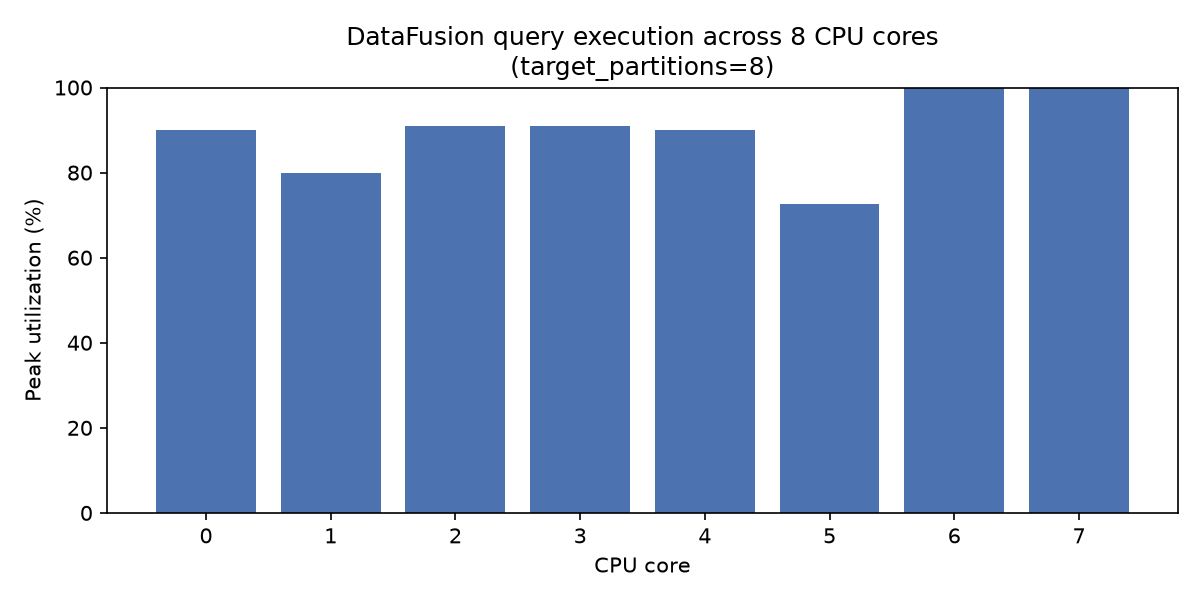
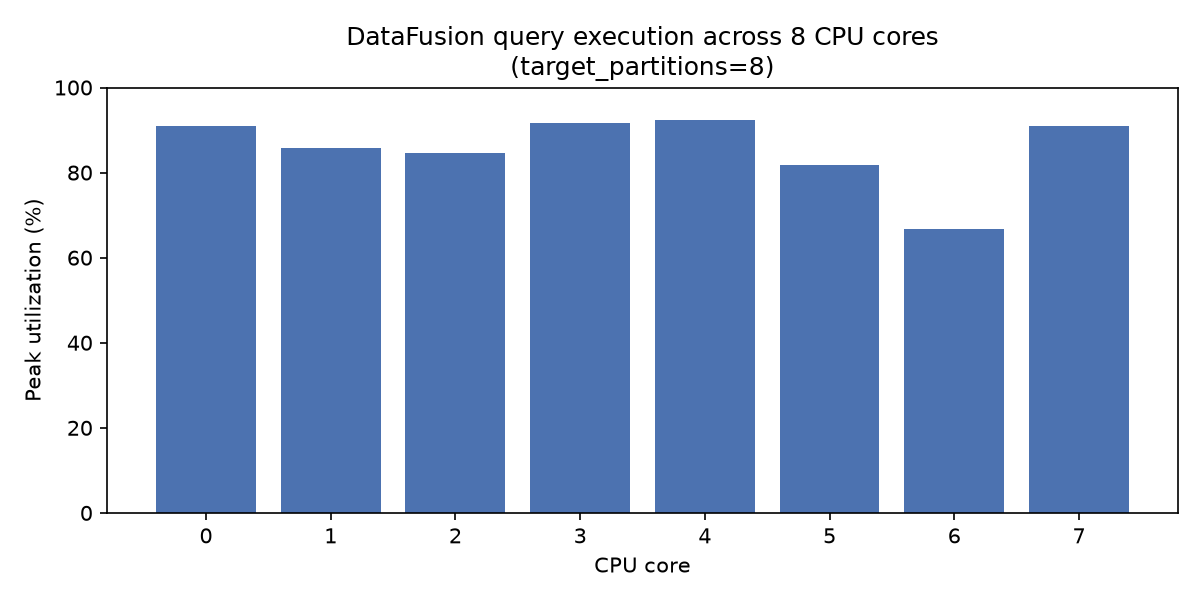
final fixes

diff --git a/datafusion/consume_process.py b/datafusion/consume_process.py
@@ -6,15 +6,6 @@ Cassandra.
 Since DataFusion has no native Kafka streaming source, this script uses a
 micro-batching approach: the consumer accumulates messages, and once a batch
 is full, hands it to DataFusion as a DataFrame.
-
-Windowing: each record carries an `Injected_Timestamp` (added by the producer
-at send time). Instead of using the wall-clock time at which the batch happens
-to be processed, we truncate this event-time field to WINDOW_SIZE and group by
-it, so `window_start` / `window_end` reflect a real tumbling window derived
-from the data itself rather than an arbitrary processing-time snapshot.
-
-Usage:
-  python3 datafusion/consume_process.py --batch-size 50 --max-batches 5
 """
 
 import argparse
@@ -28,15 +19,11 @@ import uuid
 
 KAFKA_BOOTSTRAP = "localhost:9092,localhost:9093,localhost:9094"
 TOPIC = "network-traffic"
-# Both Cassandra nodes are given as contact points (127.0.0.1 = cassandra1,
-# 127.0.0.2 = cassandra2, both on port 9042 -- see docker-compose.yml). This
-# is required for genuine fault tolerance: with only one contact point, the
-# driver has nowhere to fail over to if that node goes down mid-run, which is
-# exactly what caused a NoHostAvailable crash during fault-tolerance testing.
+
 CASSANDRA_CONTACT_POINTS = ["127.0.0.1", "127.0.0.2"]
 KEYSPACE = "intrusion_detection"
 
-WINDOW_SIZE = "second"  # date_trunc unit: tumbling window width (1 second)
+WINDOW_SIZE = "second"  
 
 
 def get_cassandra_session():
@@ -48,15 +35,11 @@ def get_cassandra_session():
 def process_batch(rows, ctx, cassandra_session):
     df = pd.DataFrame(rows)
 
-    # Cast numeric columns (everything arrives as strings from Kafka/JSON)
+    # Cast numeric columns
     df["Destination Port"] = pd.to_numeric(df["Destination Port"], errors="coerce")
     df["Flow Duration"] = pd.to_numeric(df["Flow Duration"], errors="coerce")
     df["Total Length of Fwd Packets"] = pd.to_numeric(df["Total Length of Fwd Packets"], errors="coerce")
 
-    # Injected_Timestamp: the real timestamp the producer attached to each row
-    # (ISO 8601 string). Parse it into an actual datetime so DataFusion can
-    # compute an event-time-based tumbling window instead of relying on
-    # processing time.
     df["Injected_Timestamp"] = pd.to_datetime(
         df["Injected_Timestamp"], utc=True, format="ISO8601", errors="coerce"
     )
@@ -72,9 +55,7 @@ def process_batch(rows, ctx, cassandra_session):
         WHERE "Label" != 'BENIGN'
     """).to_pandas()
 
-    # Tumbling window: round Injected_Timestamp down to WINDOW_SIZE and
-    # aggregate per window + port. window_start/window_end are now derived
-    # from the data's own event time, not from now() at processing time.
+    # Tumbling window: round Injected_Timestamp down to WINDOW_SIZE and aggregate per window + port. 
     metrics = batch_ctx.sql(f"""
         SELECT date_trunc('{WINDOW_SIZE}', "Injected_Timestamp") as window_start,
                "Destination Port" as dst_port,
@@ -88,11 +69,6 @@ def process_batch(rows, ctx, cassandra_session):
 
     window_delta = pd.Timedelta(**{WINDOW_SIZE + "s": 1})
 
-    # One batch_id per micro-batch. Without this, two different micro-batches
-    # landing on the same (dst_port, window_start) would overwrite each other
-    # (Cassandra INSERT is an upsert) instead of both being kept. See the
-    # comment in schema.cql for details; totals across batches for a given
-    # window are computed at query time via SUM(...) GROUP BY dst_port, window_start.
     batch_id = uuid.uuid4()
 
     for _, row in anomalies.iterrows():

diff --git a/scripts/prepare_data.py b/scripts/prepare_data.py
@@ -4,13 +4,11 @@ CICIDS2017 data preparation script.
 What it does:
   1. Reads the 8 raw files in data/*.csv (memory-friendly, using chunking)
   2. Strips leading/trailing whitespace from column names
-  3. Deduplicates duplicate column names (e.g., "Fwd Header Length") to make them unique
+  3. Deduplicates duplicate column names to make them unique
   4. Fixes encoding corruptions in the Label column (Web Attack types)
   5. Detects and removes corrupted rows containing missing (NaN) and infinite (Inf) values
   6. Saves the result under data/clean/ with the same filename
 
-Usage:
-  python3 scripts/prepare_data.py
 """
 
 import pandas as pd
@@ -56,7 +54,7 @@ def process_file(src_path: str, dst_path: str) -> int:
         if "Label" in chunk.columns:
             chunk["Label"] = chunk["Label"].apply(clean_label)
 
-        # 3. DATA QUALITY CONTROL (NEWLY ADDED SECTION)
+        # 3. DATA QUALITY CONTROL 
         # Convert infinite (Inf) values to NaN (Missing Data) format
         chunk.replace([np.inf, -np.inf], np.nan, inplace=True)
         # Drop all rows containing NaN values from the dataset
@@ -97,7 +95,7 @@ def main():
         except Exception as e:
             print(f"  ERROR: {e}", flush=True)
             if os.path.exists(dst):
-                os.remove(dst)  # Removing the incomplete file to avoid leaving partial data
+                os.remove(dst) 
 
     print(f"=== ALL OPERATIONS COMPLETED ===")
     print(f"Total clean rows ready to be sent to DataFusion and Kafka: {grand_total:,}\n", flush=True)

diff --git a/datafusion/core_utilization_demo.py b/datafusion/core_utilization_demo.py
@@ -1,11 +1,6 @@
 """
 Demonstrates how DataFusion distributes query execution across CPU cores.
 
-DataFusion parallelizes query execution via `target_partitions`: a query's
-physical plan is split into N independent execution partitions (N defaults
-to the number of CPU cores), each processed concurrently by DataFusion's
-Rust-native thread pool. This script shows both sides of that claim:
-
   1. The physical plan (via .explain()), showing RepartitionExec stages and
      the partition count DataFusion chose to use.
   2. Real, per-core CPU utilization sampled while a moderately expensive
@@ -32,8 +27,6 @@ except ImportError:
 
 
 def sample_cpu_during(fn, interval=0.1):
-    """Runs fn() in a background thread while sampling per-core CPU% on the
-    main thread. Returns (result, list_of_percpu_samples)."""
     samples = []
     result = {}
 
@@ -41,7 +34,7 @@ def sample_cpu_during(fn, interval=0.1):
         result["value"] = fn()
 
     t = threading.Thread(target=worker)
-    psutil.cpu_percent(percpu=True)  # prime the first (meaningless) reading
+    psutil.cpu_percent(percpu=True)  
     t.start()
     while t.is_alive():
         samples.append(psutil.cpu_percent(percpu=True, interval=interval))

diff --git a/scripts/explore_data.py b/scripts/explore_data.py
@@ -1,7 +1,5 @@
 """
 Performs exploratory data analysis on raw CICIDS2017 data (*.csv).
-Uses memory-friendly chunked reading to measure row/column counts, label distribution,
-port distribution, missing (NaN/Inf) data rates, and timestamp injection performance.
 """
 
 import pandas as pd
@@ -10,7 +8,6 @@ import glob
 import os
 import time
 
-# You can adjust this path based on where your data files are located
 RAW_DIR = "data" 
 OUT_PATH = "docs/raw_data_exploration.txt"
 CHUNK_SIZE = 50_000

diff --git a/README.md b/README.md
@@ -18,6 +18,8 @@ The project went through two architectures:
   Track's fault-tolerance requirement, and what all current and future work
   in this repo uses.
 
+**You can find each architecture in their branches named as single-node and multi-node. Please make sure you are in the correct branch in the repository for the correct architecture!**
+
 Both are documented below so it's clear what changed and why. Only the
 multi-node setup is runnable as-is from this repo's files.
 
